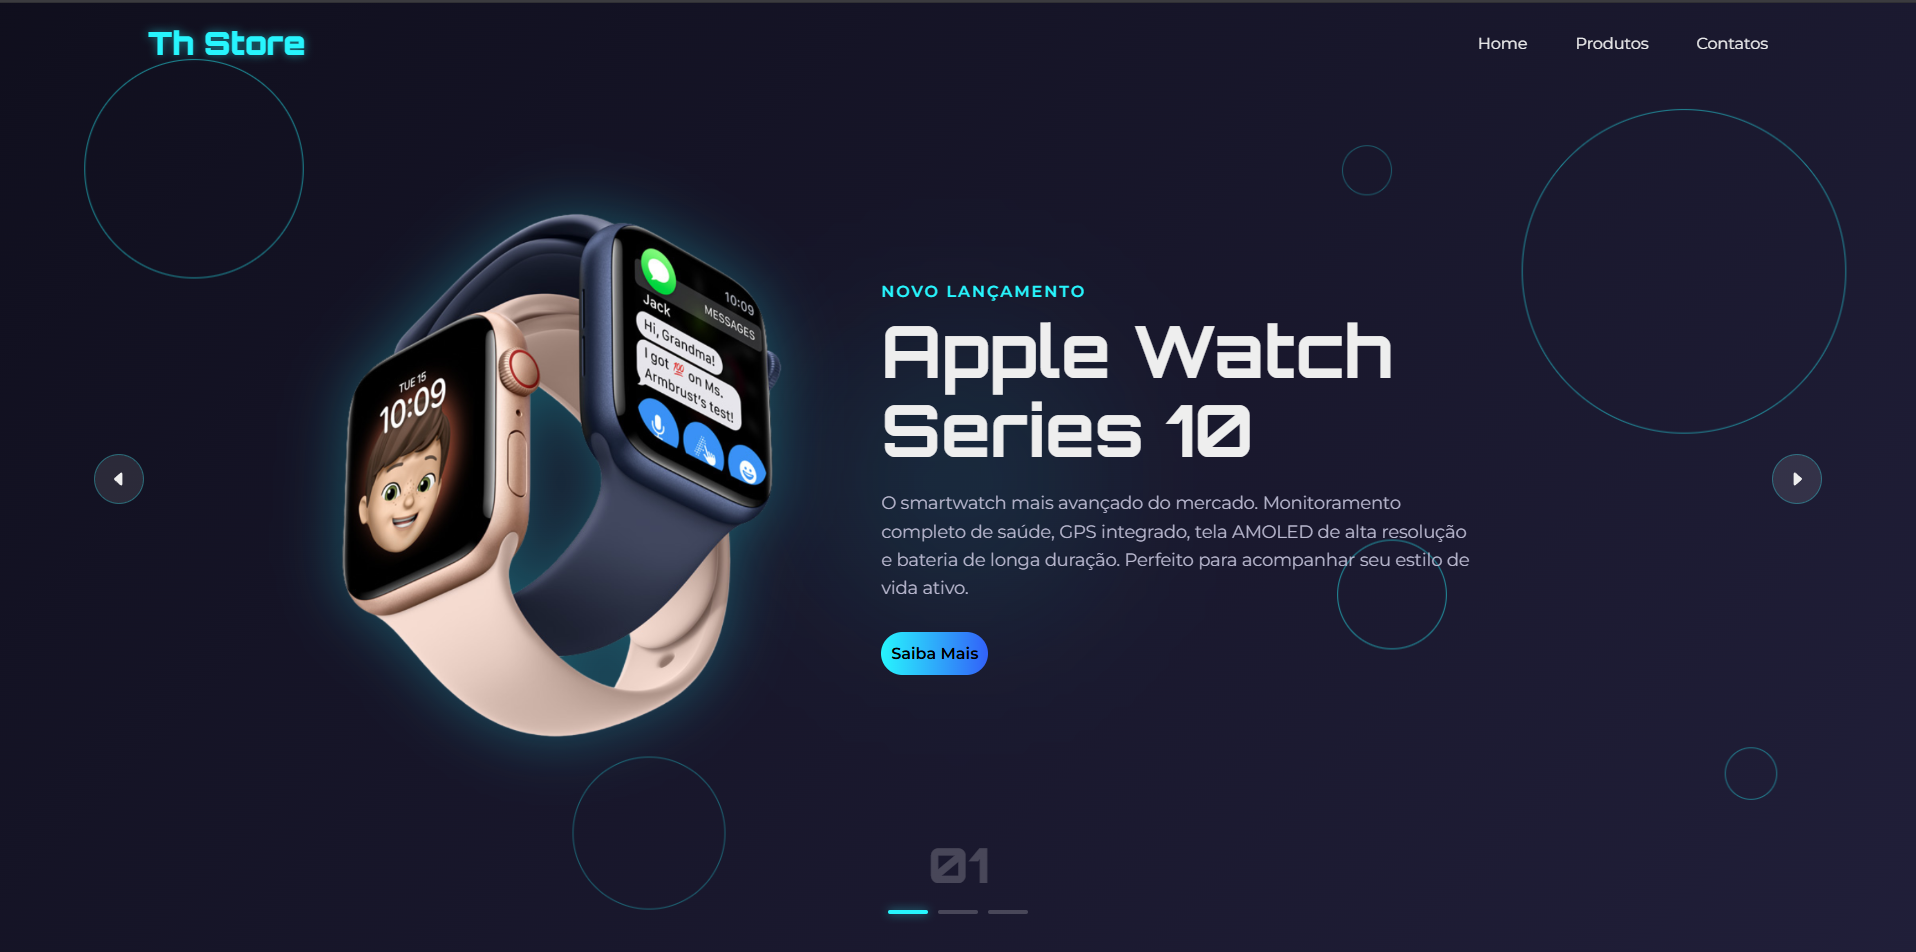
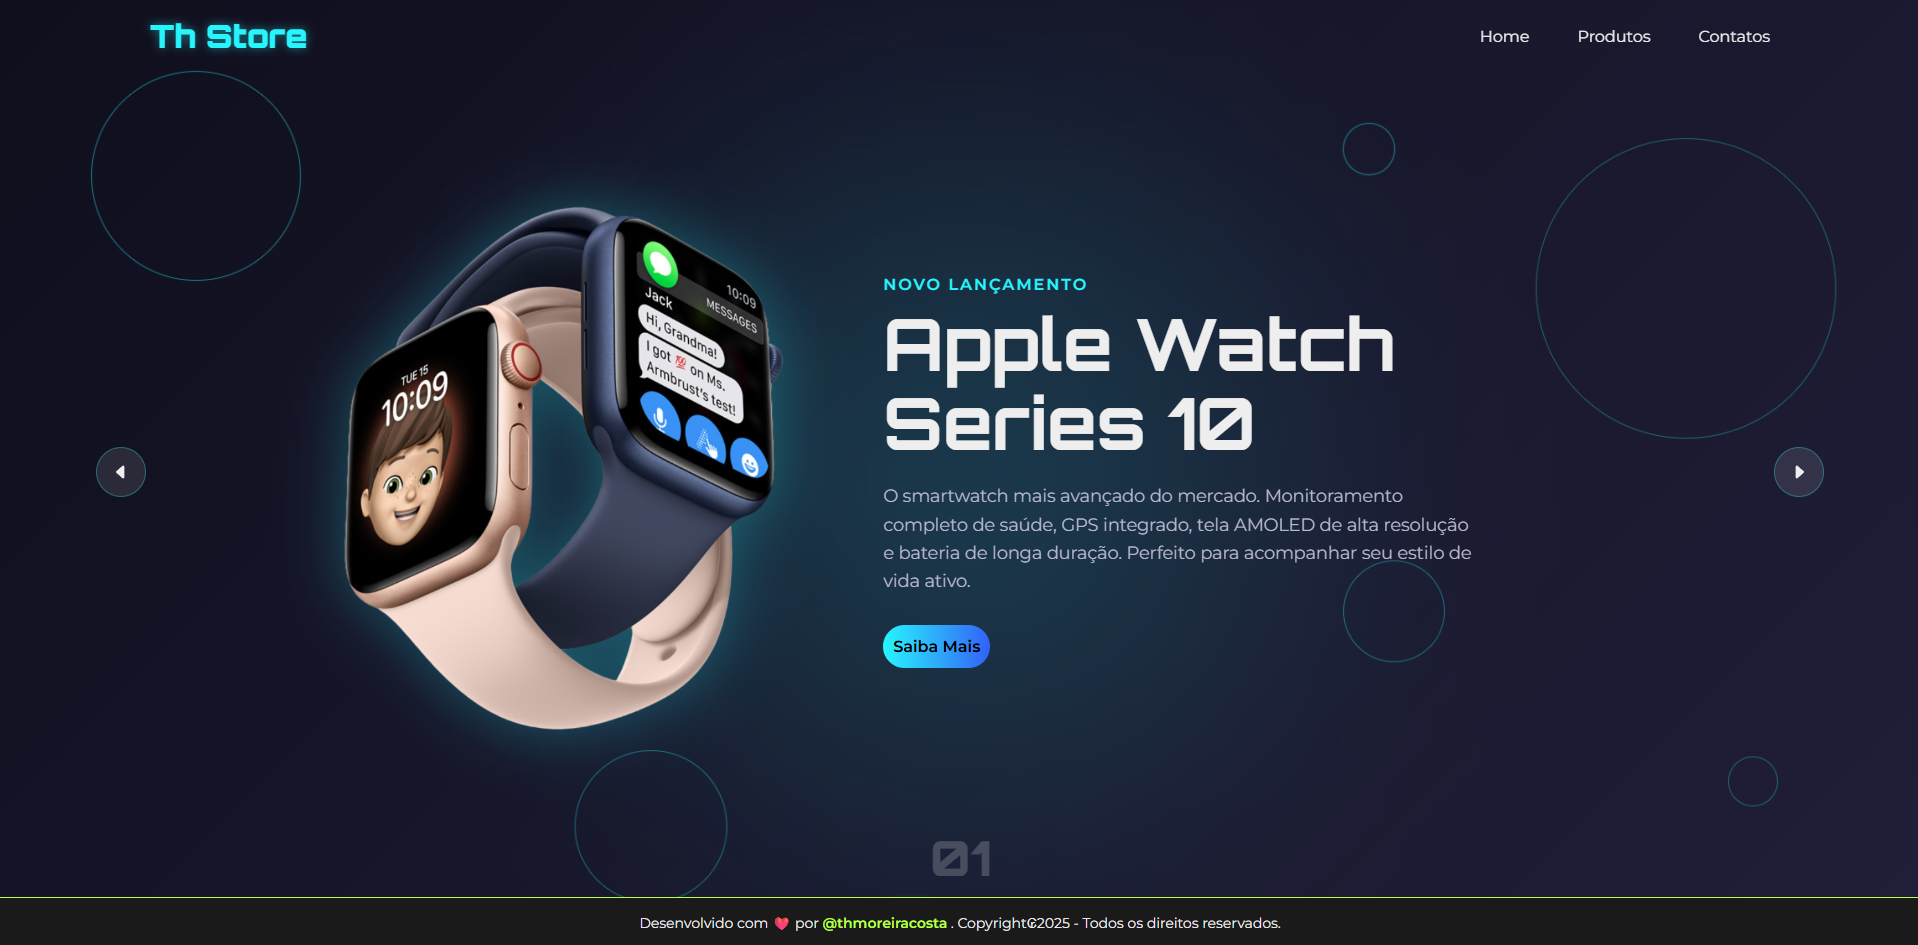
footer

diff --git a/styles/style.css b/styles/style.css
@@ -426,3 +426,32 @@ header nav div a:hover::after {
   background-color: #00f7ff;
   box-shadow: 0 0 10px rgba(0, 247, 255, 0.5);
 }
+
+footer.footer {
+  width: 100%;
+  padding: 15px 0;
+  background-color: #1a1a1a;
+  text-align: center;
+  font-size: 14px;
+  color: #eee;
+  font-family: "Poppins", sans-serif;
+  border-top: 1px solid #beff1b;
+
+  position: fixed;  
+  bottom: 0;        
+  left: 0;
+  z-index: 10;  
+}
+
+footer.footer a {
+  color: #beff1b;
+  text-decoration: none;
+  font-weight: 600;
+  transition: color 0.3s;
+}
+
+footer.footer a:hover {
+  color: #fff;
+}
+
+

diff --git a/index.html b/index.html
@@ -69,6 +69,17 @@
         <ul class="dots"></ul>
       </div>
     </main>
+    <footer class="footer">
+      <div class="footer-container">
+        <p>
+          Desenvolvido com ❤ por
+          <a href="https://github.com/thmoreiracosta" target="_blank"
+            >@thmoreiracosta</a
+          >
+          . Copyright₢2025 - Todos os direitos reservados.
+        </p>
+      </div>
+    </footer>
   </body>
   <script type="module" src="./scripts/script.js"></script>
 </html>
